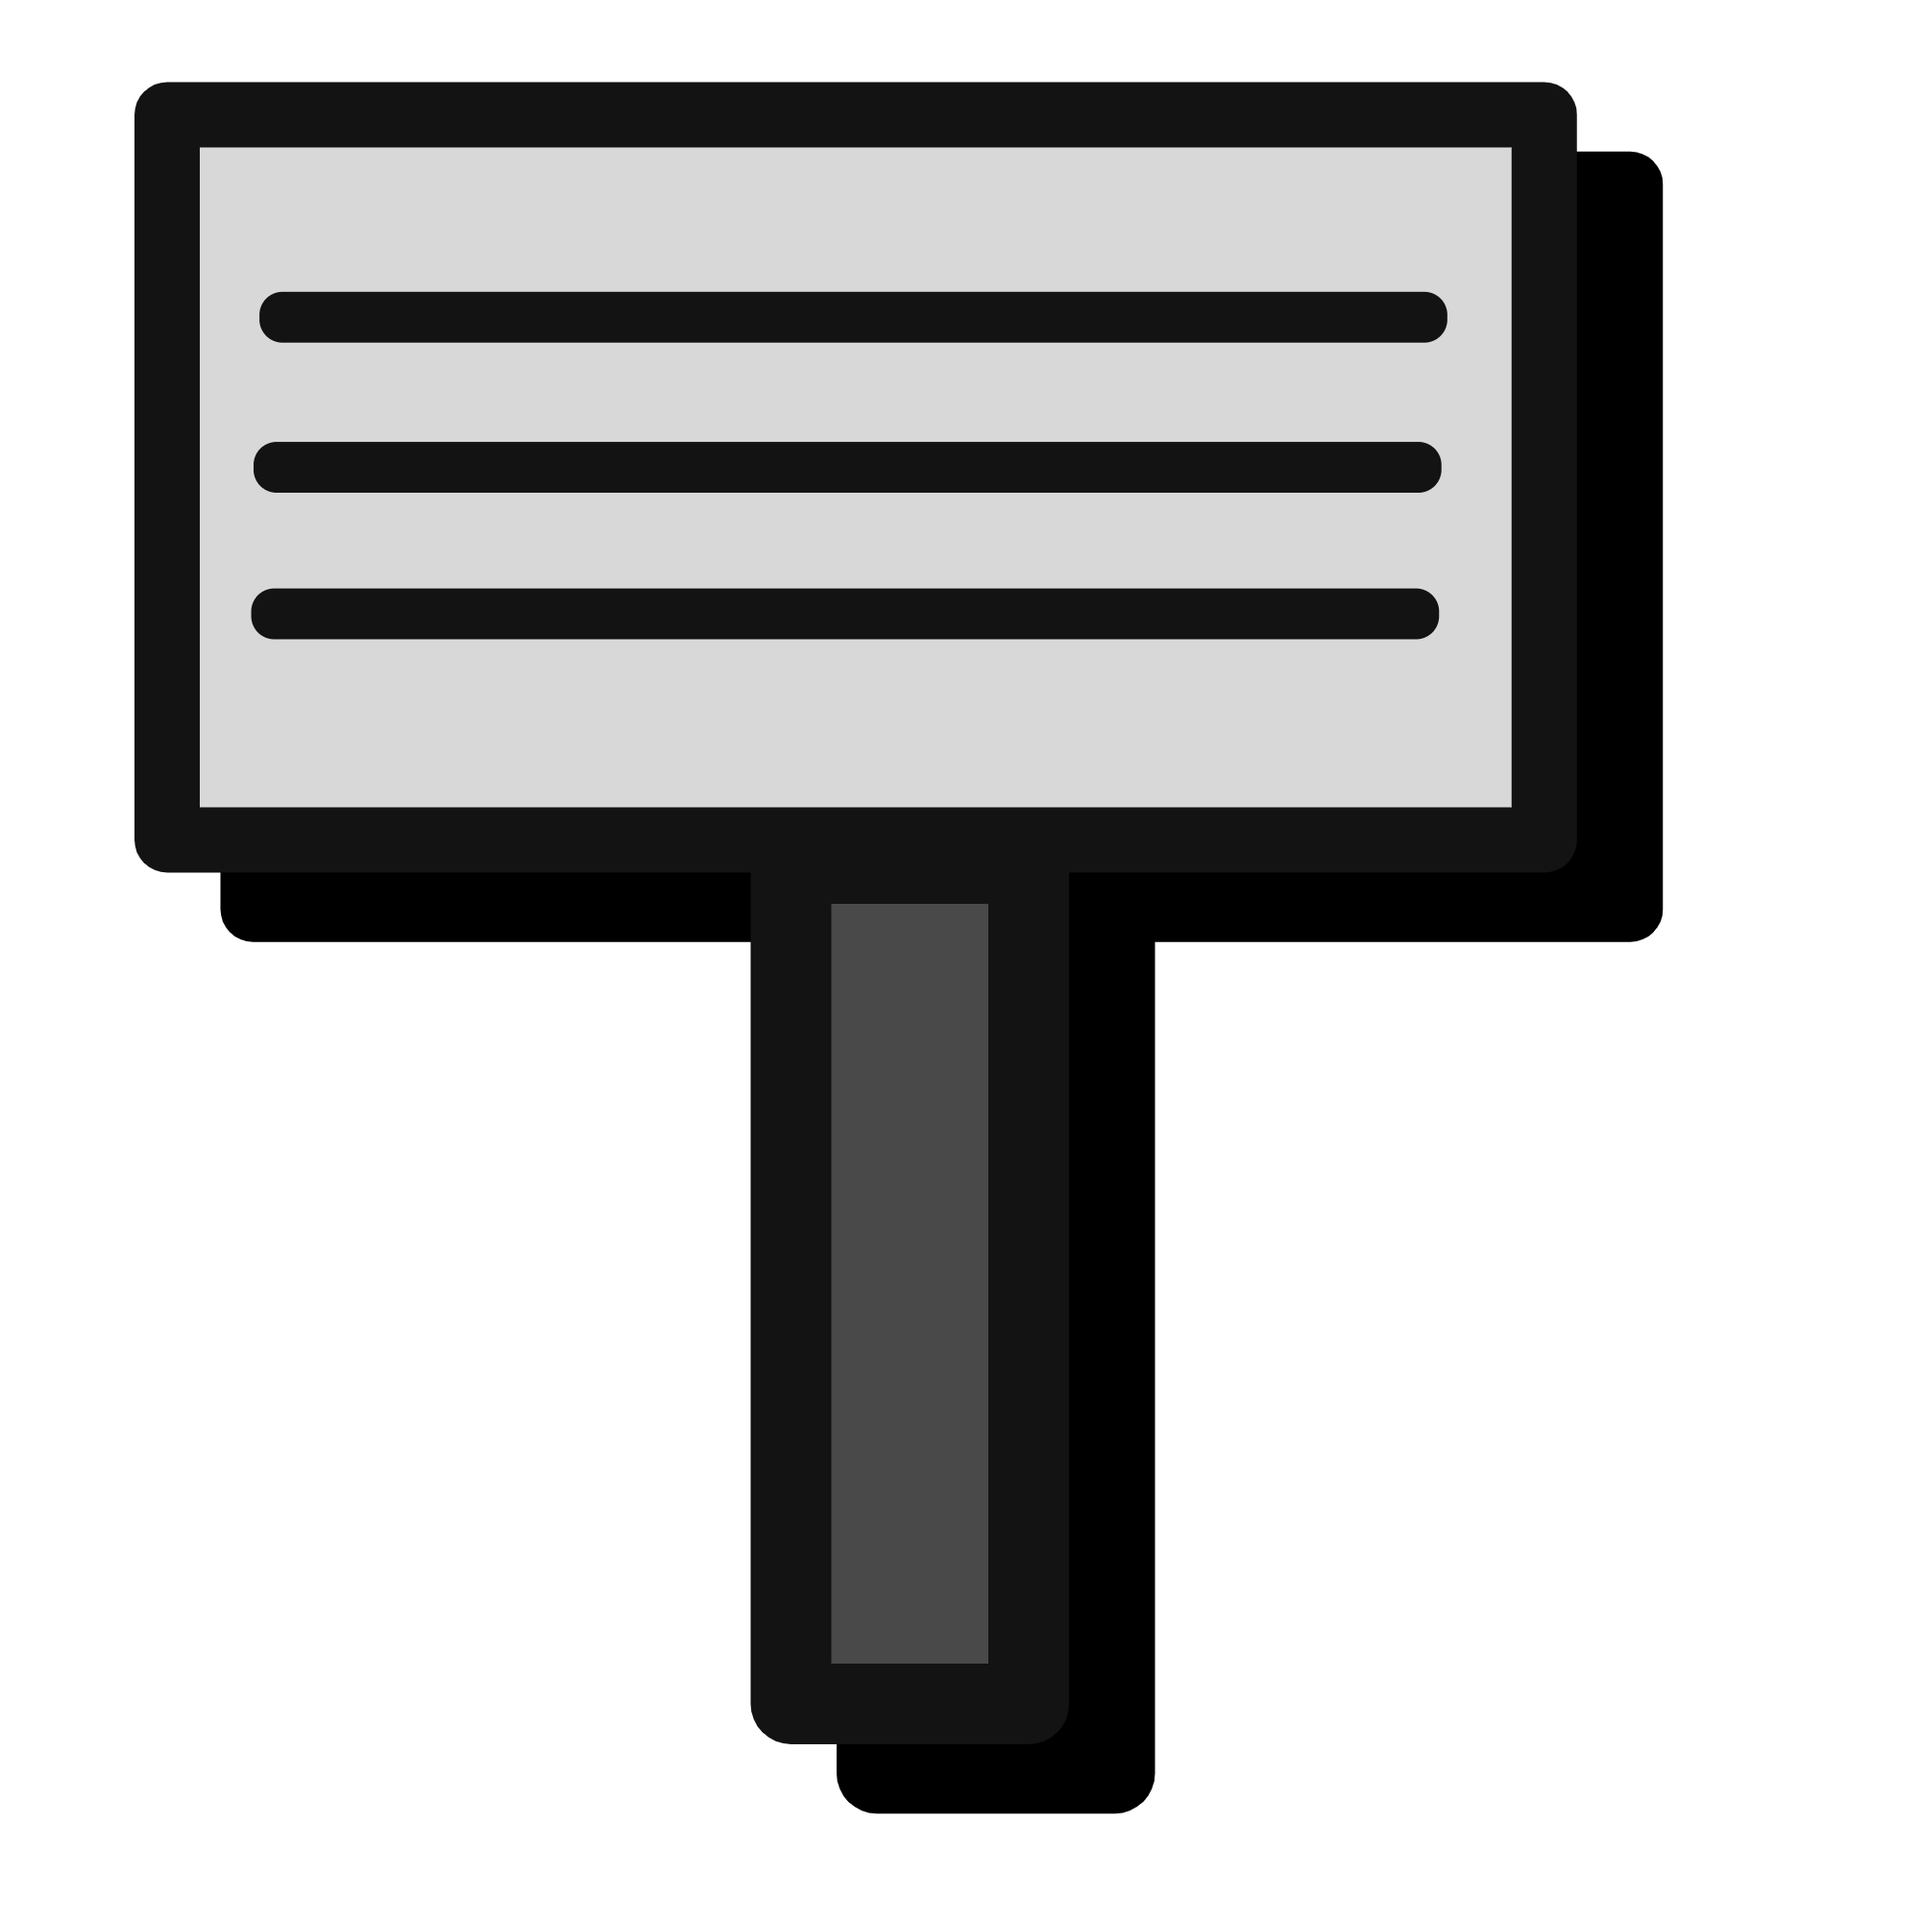
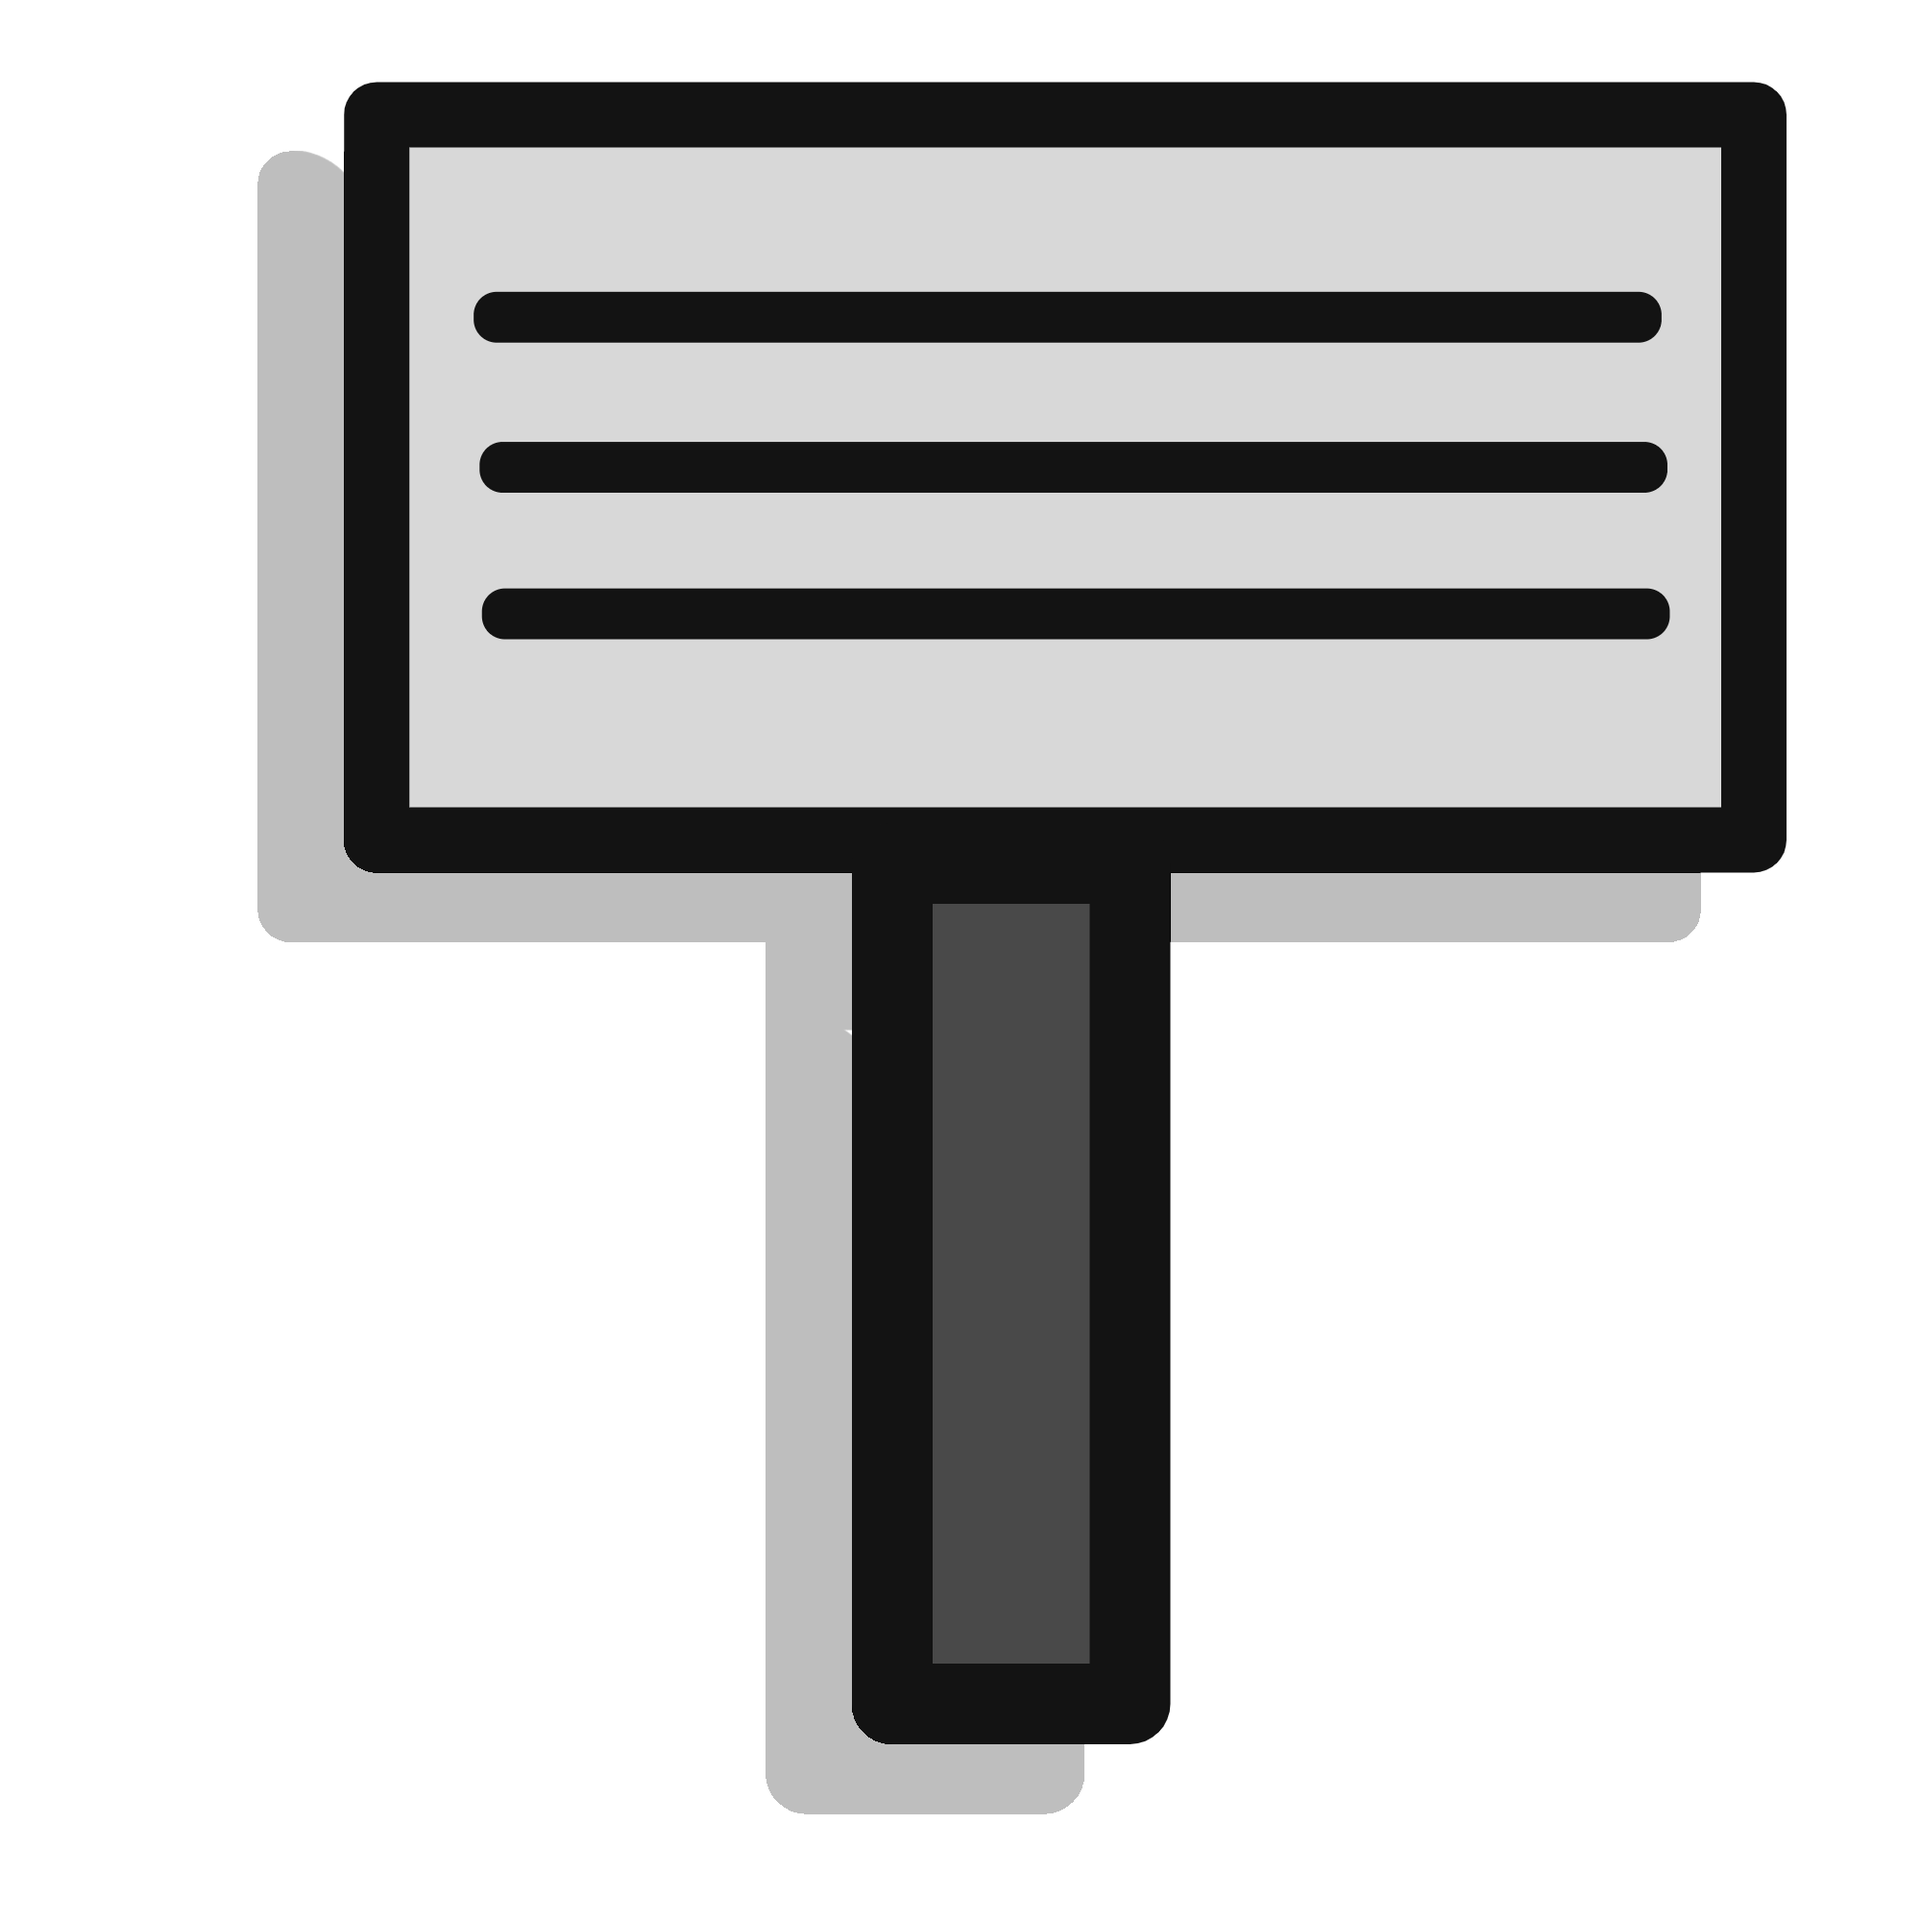
altered shadows to be more consistant

Changed region(s): [[0.062, 0.031, 0.93, 0.961]]

diff --git a/utils/DrawUtils.js b/utils/DrawUtils.js
@@ -8,18 +8,18 @@ export class DrawUtils {
     Bean(x, y, width, height, color) {
 
         ctx.beginPath();
-        ctx.arc(x - 5, (y + 5) - (height / 2), width / 2 +5, 0, ( Math.PI/180 ) * 190, ( Math.PI/180 ) * 180,  false);
-        ctx.fillStyle = "rgba(0, 0, 0, .1)";
+        ctx.arc(x - 10, (y + 10) - (height / 2), width / 2 +5, 0, ( Math.PI/180 ) * 180, ( Math.PI/180 ) * 180,  false);
+        ctx.fillStyle = "rgba(0, 0, 0, .2)";
         ctx.fill();
         ctx.closePath();
 
         ctx.beginPath();
-        ctx.arc(x - 5, (y + (height - (width / 2)) + 5) - (height / 2), width / 2 +5, 0, Math.PI / 1.06, false);
+        ctx.arc(x - 10, (y + (height - (width / 2)) + 10) - (height / 2), width / 2 +5, 0, Math.PI, false);
         ctx.fill();
         ctx.closePath();
 
         ctx.beginPath();
-        ctx.rect((x - 10) - (width / 2), y - (height / 2), width + 10 , height - width / 2 + 10);
+        ctx.rect((x - 15) - (width / 2), y - (height / 2) + 10, width + 10 , height - width / 2 );
         ctx.fill();
         ctx.closePath();    
 

diff --git a/system/map-player/player/Player.js b/system/map-player/player/Player.js
@@ -110,16 +110,16 @@ export class Player {
     #updateVelocityNoclip() {
         if (this.keyManager.isKeyPressed("KeyD")) {
             this.velX -= this.noclipVelChange //*18 * (;
-            if (Math.abs(this.velX) > this.maxVelX) {
-                this.velX = -this.maxVelX;
-            }
+            //if (Math.abs(this.velX) > this.maxVelX) {
+            //    this.velX = -this.maxVelX;
+            //}
 
         }
         if (this.keyManager.isKeyPressed("KeyA")) {
               this.velX += this.noclipVelChange //;
-              if (this.velX > this.maxVelX) {
-                this.velX = this.maxVelX;
-            }
+            //  if (this.velX > this.maxVelX) {
+            //    this.velX = this.maxVelX;
+            //}
               
         }
         if (this.keyManager.isKeyPressed("KeyW") || this.keyManager.isKeyPressed("Space")) {

diff --git a/system/map-player/sign.js b/system/map-player/sign.js
@@ -24,7 +24,7 @@ export class sign{
  
     nDraw(camera, utils) {
         ctx.drawImage(this.sign, this.x + camera.x, this.y + camera.y, this.width, this.height)
-        ctx.drawImage(this.tip, this.x + camera.x + this.width * (4/9) - this.tipSize / 2, this.y + camera.y - this.tipSize / 1, this.tipSize, this.tipSize)
+        ctx.drawImage(this.tip, this.x + camera.x + this.width * (5/9) - this.tipSize / 2, this.y + camera.y - this.tipSize / 1, this.tipSize, this.tipSize)
     }
 
     update(player, keyman) {
